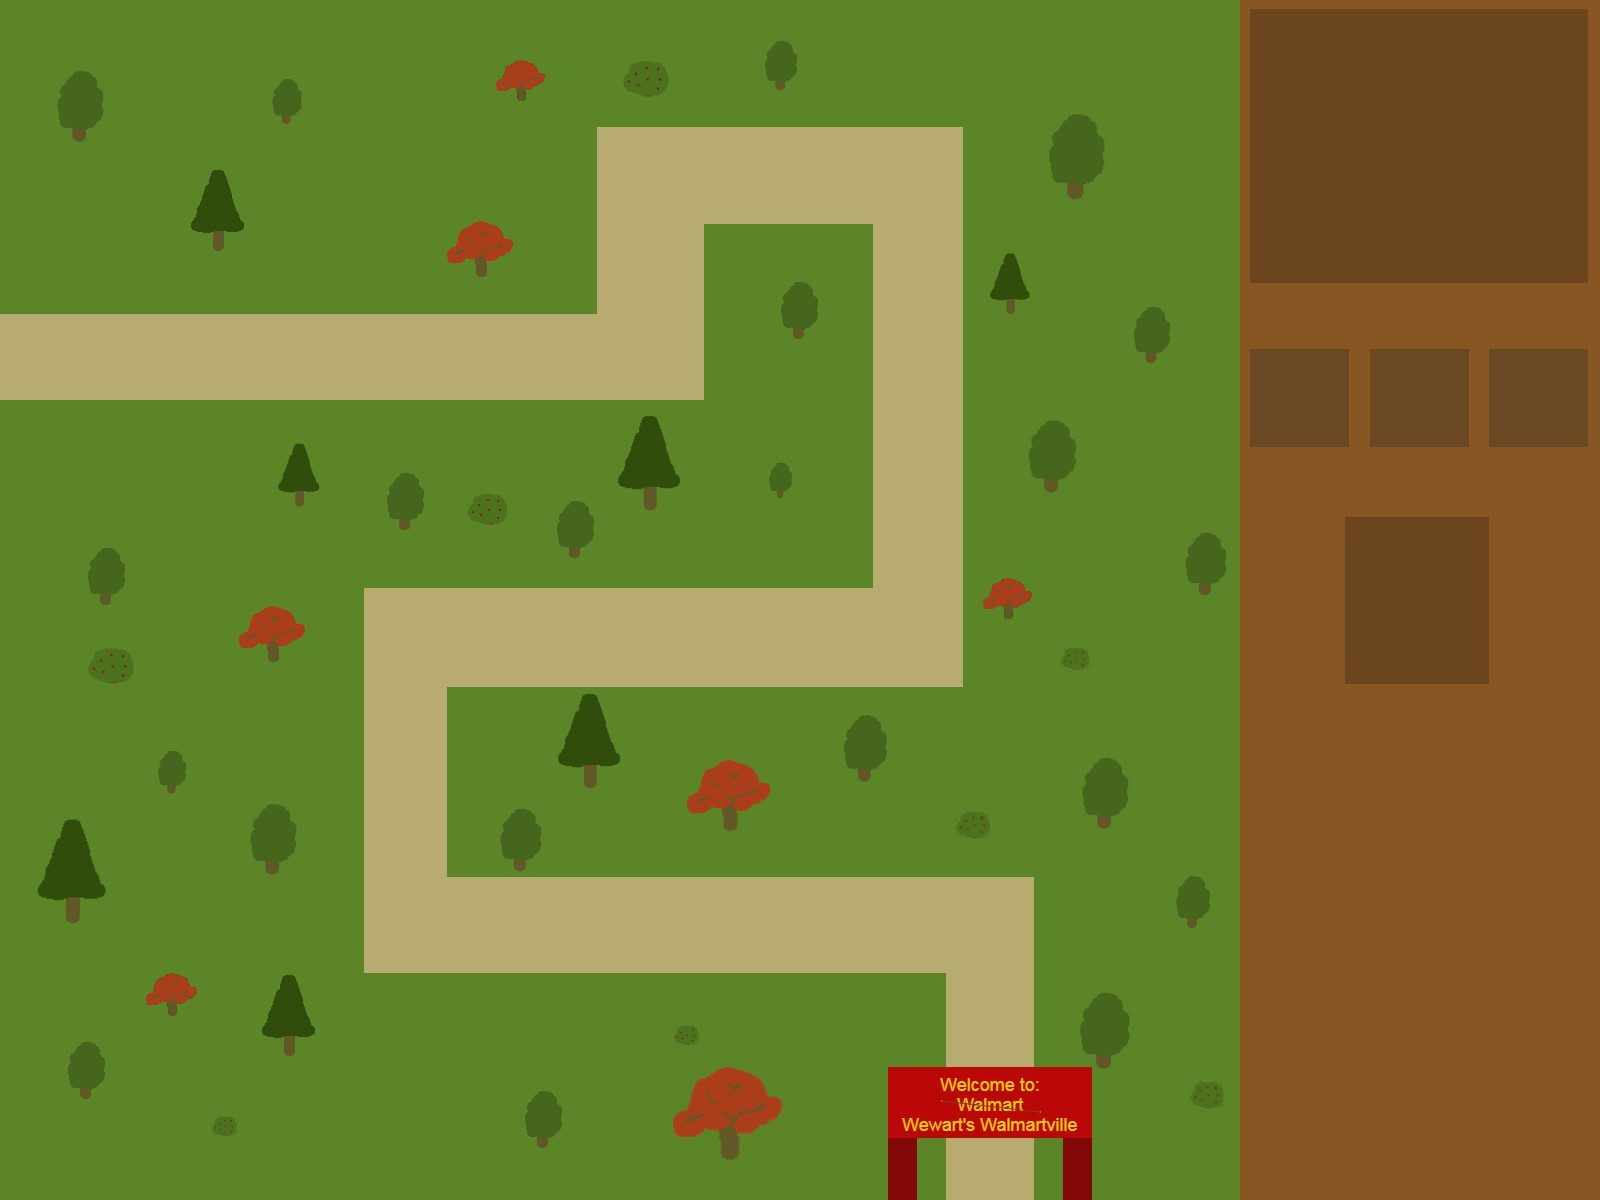
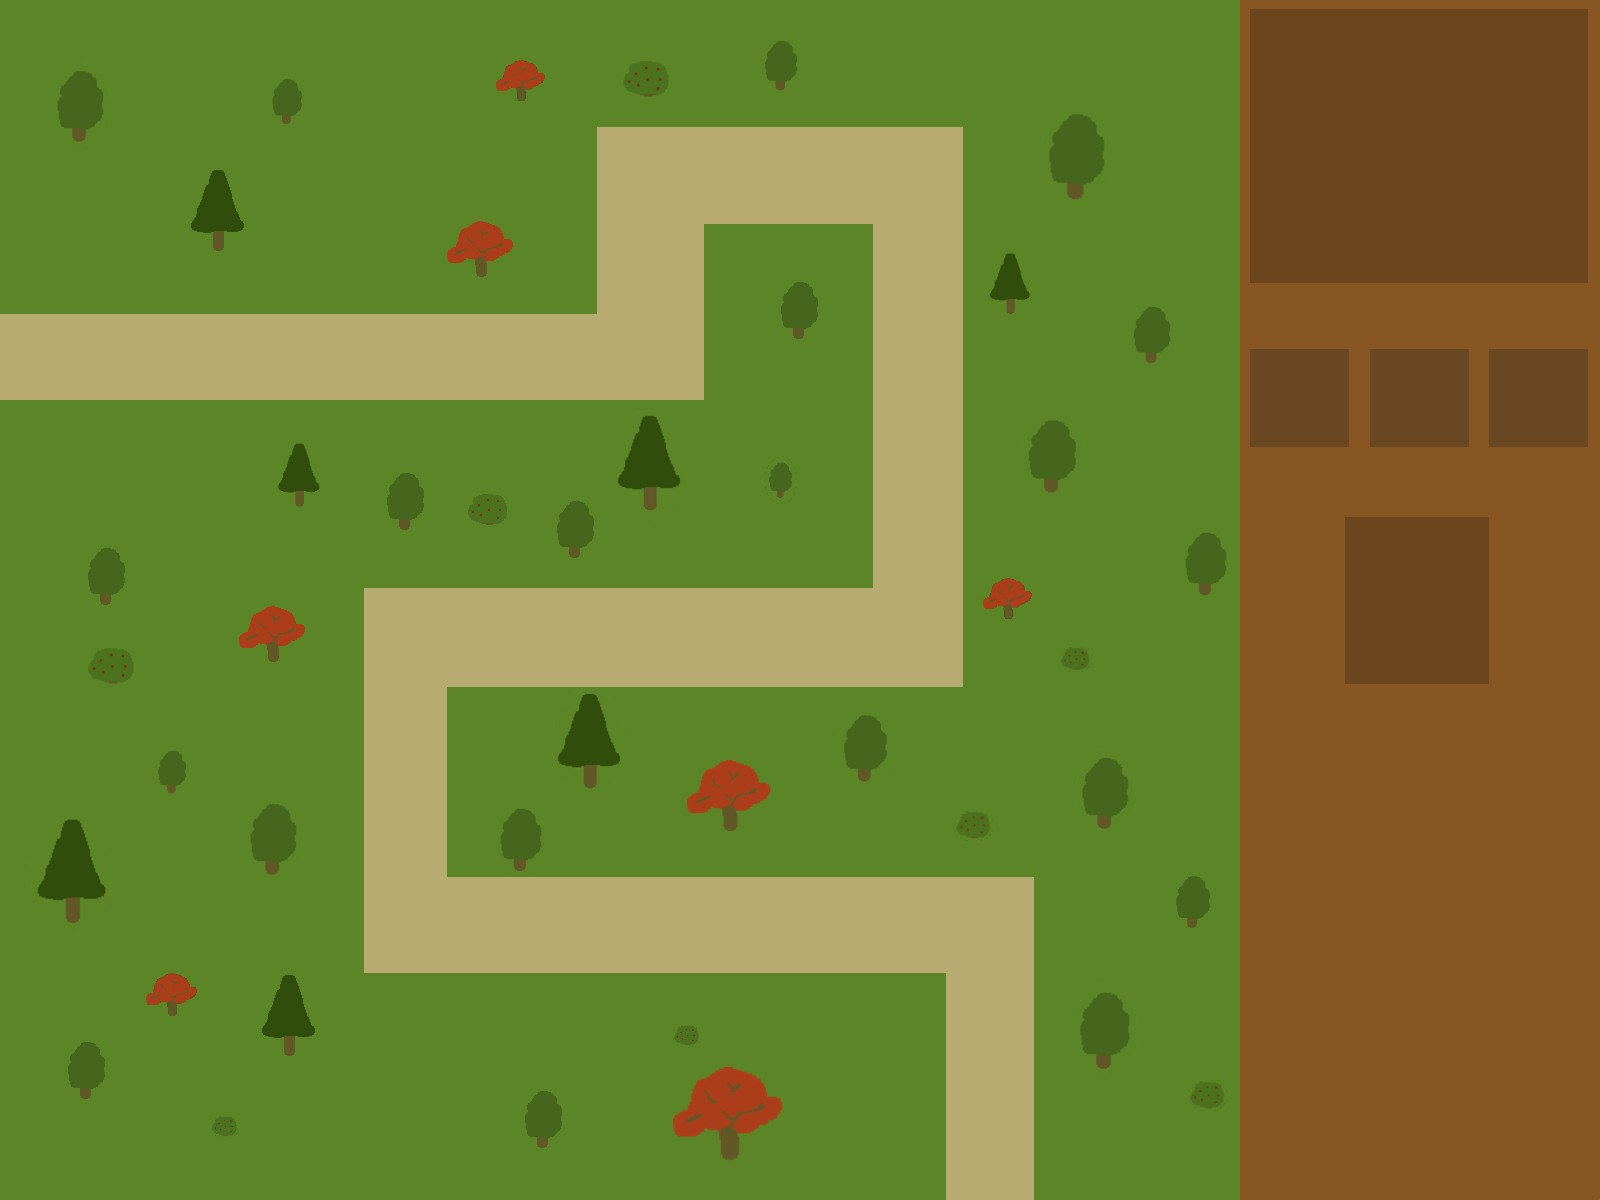
figure out spawn delays

Changed region(s): [[0.5312, 0.8633, 0.6875, 1.0]]

diff --git a/main.py b/main.py
@@ -7,7 +7,7 @@ pygame.display.set_icon(pygame.image.load("Resources/Temporary.png"))
 
 background = pygame.image.load("Resources\\background.jpg")
 
-waypoints = [(620,325),(620,160),(750,160)]
+waypoints = [(620,325),(620,150),(885,150),(885,610),(375,610),(375,895),(955,895),(955,1190)]
 
 
 lives = 20
@@ -24,30 +24,26 @@ while running:
     if wave <= 5 and not done:
         to_spawn = wave*5
         for i in range(to_spawn):
-            enemies.add(Enemy((0,325),100,0.5,1))
+            enemies.add(Enemy((0,325),100,1,1))
         done = True
         wave += 1
     elif wave > 5 and wave < 11 and not done:
         to_spawn = (wave-5) * 5
         for i in range(to_spawn):
-            enemies.add(Enemy((0,325),300,0.5,1))
+            enemies.add(Enemy((0,325),300,2,1))
         done = True
         wave += 1
     elif not done:
-        enemies.add(Enemy((0,325),5000,0.5,1))
+        enemies.add(Enemy((0,325),5000,1,1))
         done = True
         wave += 1
 
     for i in enemies:
-        print(i.rect.y)
         i.update(waypoints[i.next_waypoint_idx])
         if i.at_waypoint(waypoints[i.next_waypoint_idx]):
-            print("there")
             if i.next_waypoint_idx > len(waypoints) - 1:
-                print("killing")
                 i.kill()
                 lives -= 1
-    for i in waypoints:
-        screen.blit(pygame.image.load("Resources\\Temporary.png"),(i[0],i[1]))
     enemies.draw(screen)
+    screen.blit(pygame.image.load("Resources\\sign.png"),(880,1075))
     pygame.display.flip()

diff --git a/classes.py b/classes.py
@@ -77,9 +77,7 @@ class Enemy(sprite.Sprite):
             y_move = self.speed * -1
         #move based on what was calculated
         self.rect.x += x_move
-        print(f"{self.rect.y} + {y_move} == {self.rect.y + y_move}")
-        self.rect.y = self.rect.y + y_move
-        print(self.rect.y)
+        self.rect.y += y_move
 
     def at_waypoint(self, waypoint):
         dist = math.sqrt(((waypoint[0]-self.rect.x)**2) + ((waypoint[1] - self.rect.y)**2))
